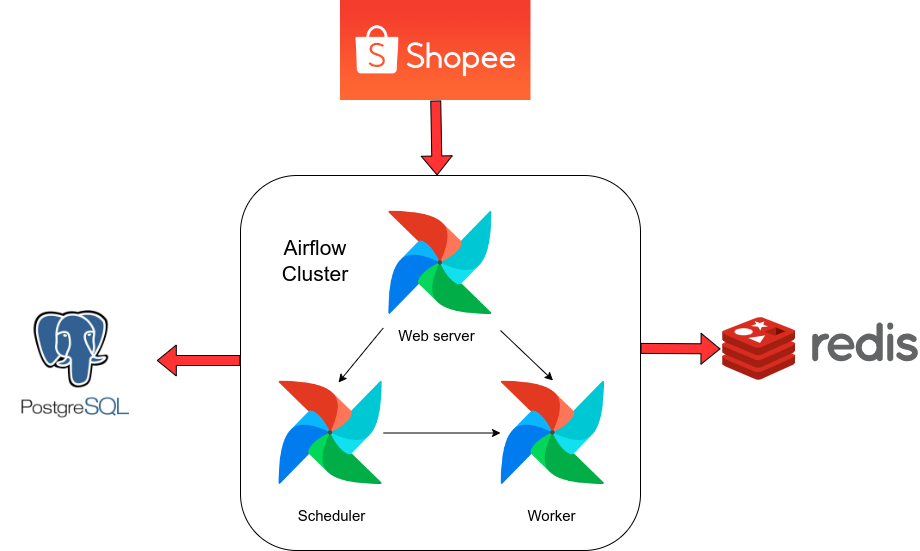
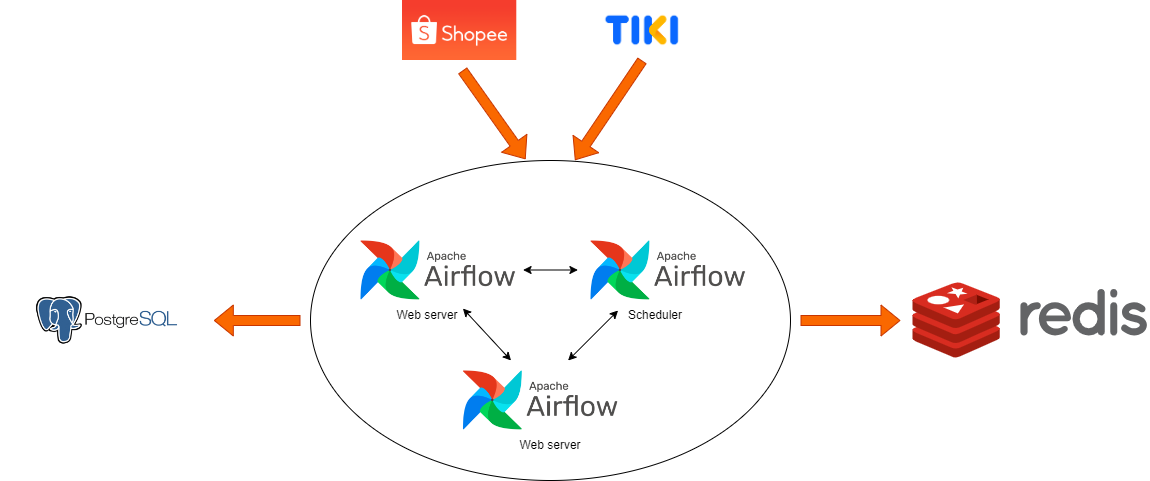
Update README.md

diff --git a/README.md b/README.md
@@ -2,7 +2,7 @@
 
 ## Project introduction
 <ul>
-  <li>Name of project: Analyze e-commerce information on Shopee</li>
+  <li>Name of project: Analyze e-commerce information on Shopee and Tiki</li>
   <li>Project objective:
     <ul>
       <li>Top well-rated products by item</li>
@@ -16,16 +16,16 @@
 
 ## System overview
 ### Data ingestion
-<img src="https://github.com/Tran-Ngoc-Bao/ProcessShopeeData/blob/master/illustration/diagram/ThuThapDuLieu.png">
+<img style="width:40%" src="https://github.com/Tran-Ngoc-Bao/ProcessShopeeData/blob/master/illustration/diagram/ThuThapDuLieu.png">
   
 ### Data storage
-<img src="https://github.com/Tran-Ngoc-Bao/ProcessShopeeData/blob/master/illustration/diagram/LuuTruDuLieu.png">
+<img style="width:40%" src="https://github.com/Tran-Ngoc-Bao/ProcessShopeeData/blob/master/illustration/diagram/LuuTruDuLieu.png">
   
 ### Process data
-<img src="https://github.com/Tran-Ngoc-Bao/ProcessShopeeData/blob/master/illustration/diagram/XuLyDuLieu.png">
+<img style="width:40%" src="https://github.com/Tran-Ngoc-Bao/ProcessShopeeData/blob/master/illustration/diagram/XuLyDuLieu.png">
   
 ### Visualize data
-<img src="https://github.com/Tran-Ngoc-Bao/ProcessShopeeData/blob/master/illustration/diagram/TrucQuanHoaDuLieu.png">
+<img style="width:20%" src="https://github.com/Tran-Ngoc-Bao/ProcessShopeeData/blob/master/illustration/diagram/TrucQuanHoaDuLieu.png">
 
 
 ## Deploy system
@@ -73,23 +73,21 @@ trino -f { /etc/trino/code/query1.sql, /etc/trino/code/query2.sql, /etc/trino/co
 
 ## Output
 ### Top well-rated products by item
-<img src="https://github.com/Tran-Ngoc-Bao/ProcessShopeeData/blob/master/illustration/output/top_rate_Balo_%26_Tui_Vi_Nam.jpg">
+<img style="width:70%" src="https://github.com/Tran-Ngoc-Bao/ProcessShopeeData/blob/master/illustration/output/top_rate_Balo_%26_Tui_Vi_Nam.jpg">
 
 ### Top liked products by item
-<img src="https://github.com/Tran-Ngoc-Bao/ProcessShopeeData/blob/master/illustration/output/top_like_Thoi_Trang_Nam.jpg">
+<img style="width:70%" src="https://github.com/Tran-Ngoc-Bao/ProcessShopeeData/blob/master/illustration/output/top_like_Thoi_Trang_Nam.jpg">
   
 ### Top products on strong sale
 <div>
-  <img style="width:33%" src="https://github.com/Tran-Ngoc-Bao/ProcessShopeeData/blob/master/illustration/output/sale_7h_12h_8_6.jpg">
-  <img style="width:32%" src="https://github.com/Tran-Ngoc-Bao/ProcessShopeeData/blob/master/illustration/output/sale_13h_18h_9_6.jpg">
-  <img style="width:32%" src="https://github.com/Tran-Ngoc-Bao/ProcessShopeeData/blob/master/illustration/output/sale_18h_24h_10_6.jpg">
+  <img style="width:70%" src="https://github.com/Tran-Ngoc-Bao/ProcessShopeeData/blob/master/illustration/output/sale_13h_18h_9_6.jpg">
 </div>
 
 ### Top products with the most comments
-<img src="https://github.com/Tran-Ngoc-Bao/ProcessShopeeData/blob/master/illustration/output/top_comment.jpg">
+<img style="width:70%" src="https://github.com/Tran-Ngoc-Bao/ProcessShopeeData/blob/master/illustration/output/top_comment.jpg">
 
 ### Top best selling products
-<img src="https://github.com/Tran-Ngoc-Bao/ProcessShopeeData/blob/master/illustration/output/top_sold.jpg">
+<img style="width:70%" src="https://github.com/Tran-Ngoc-Bao/ProcessShopeeData/blob/master/illustration/output/top_sold.jpg">
 
 ## Report
 <ul>
